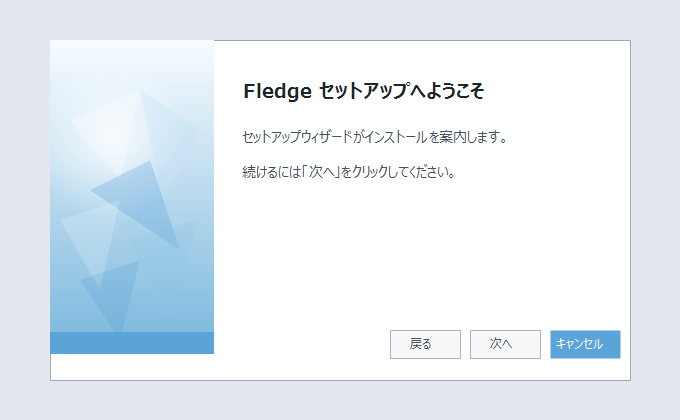
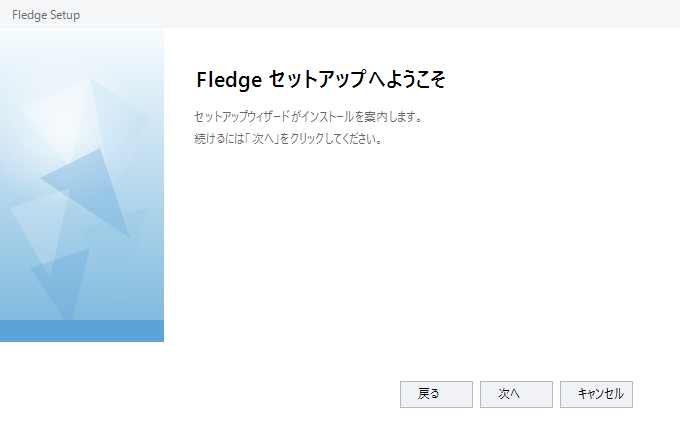
Ver.0.5.8: インストーラーウィンドウを 16:10 に調整

diff --git a/packages/core/src/content/ModrinthProvider.ts b/packages/core/src/content/ModrinthProvider.ts
@@ -784,7 +784,7 @@ export class ModrinthProvider implements ContentProvider {
   async findUpdate(
     entry: { projectId: string; versionId: string; category: ContentCategory },
     opts: { gameVersion?: string; loaders?: ContentLoaderFilter[] },
-  ): Promise<{ versionId: string; versionNumber: string } | null> {
+  ): Promise<{ versionId: string; versionNumber: string; versionType: 'release' } | null> {
     try {
       // 依存ツリー全体は見ず、当該プロジェクトの最新互換・安定版だけ見る（高速）
       const versions = await this.listVersions(entry.projectId, {

diff --git a/packages/shared/src/version.ts b/packages/shared/src/version.ts
@@ -25,7 +25,7 @@
  * 4. RELEASE_NOTES.md に GitHub Release 用の更新内容を書く
  * 5. `v{APP_VERSION}` タグを push（例: v0.5.0）
  */
-export const APP_VERSION = '0.5.7' as const
+export const APP_VERSION = '0.5.8' as const
 
 /** UI 表示用（`Ver.X.X.X`） */
 export const APP_VERSION_LABEL = `Ver.${APP_VERSION}` as const

diff --git a/crates/fledge-core/src/updater/version.rs b/crates/fledge-core/src/updater/version.rs
@@ -1,6 +1,6 @@
 //! Version compare / generation lock — mirrors packages/shared.
 
-pub const APP_VERSION: &str = "0.5.7";
+pub const APP_VERSION: &str = "0.5.8";
 
 const GEN2_MIN_MINOR: u32 = 3;
 const GEN3_MIN_MINOR: u32 = 5;

diff --git a/RELEASE_NOTES.md b/RELEASE_NOTES.md
@@ -1,16 +1,15 @@
-**Fledge Ver.0.5.7**（第3世代・Tauri シェル / Latest）
+**Fledge Ver.0.5.8**（第3世代・Tauri シェル / Latest）
 
-アンインストール後にインストール先フォルダが残る問題と、初回起動案内の順序を修正しました。
+インストーラーウィンドウを 16:10 に整えました（サイドバー／ヘッダー画像の比率はそのまま）。
 
-## 修正
+## 変更
 
-- **アンインストール**: 選択したインストール先（`○○\Fledge`）とその中の `data` などをまとめて削除
-- **初回起動**: 「ようこそ」→「利用規約」→「チュートリアル確認」の順に案内（いきなりチュートリアルに入らない）
+- **インストーラー**: 外枠を 16:10（680×425）にリサイズ。サイドバー・ヘッダーのビットマップは従来サイズのまま（画像が引き伸ばされない）
 
 ## 配布
 
-- タグ: `v0.5.7`
-- インストーラ: **`Fledge_0.5.7_x64-setup.exe`**
-- 表示: `Ver.0.5.7`
+- タグ: `v0.5.8`
+- インストーラ: **`Fledge_0.5.8_x64-setup.exe`**
+- 表示: `Ver.0.5.8`
 
 不具合や要望は [GitHub Issues](https://github.com/arula-folne/Fledge/issues) からお知らせください。
